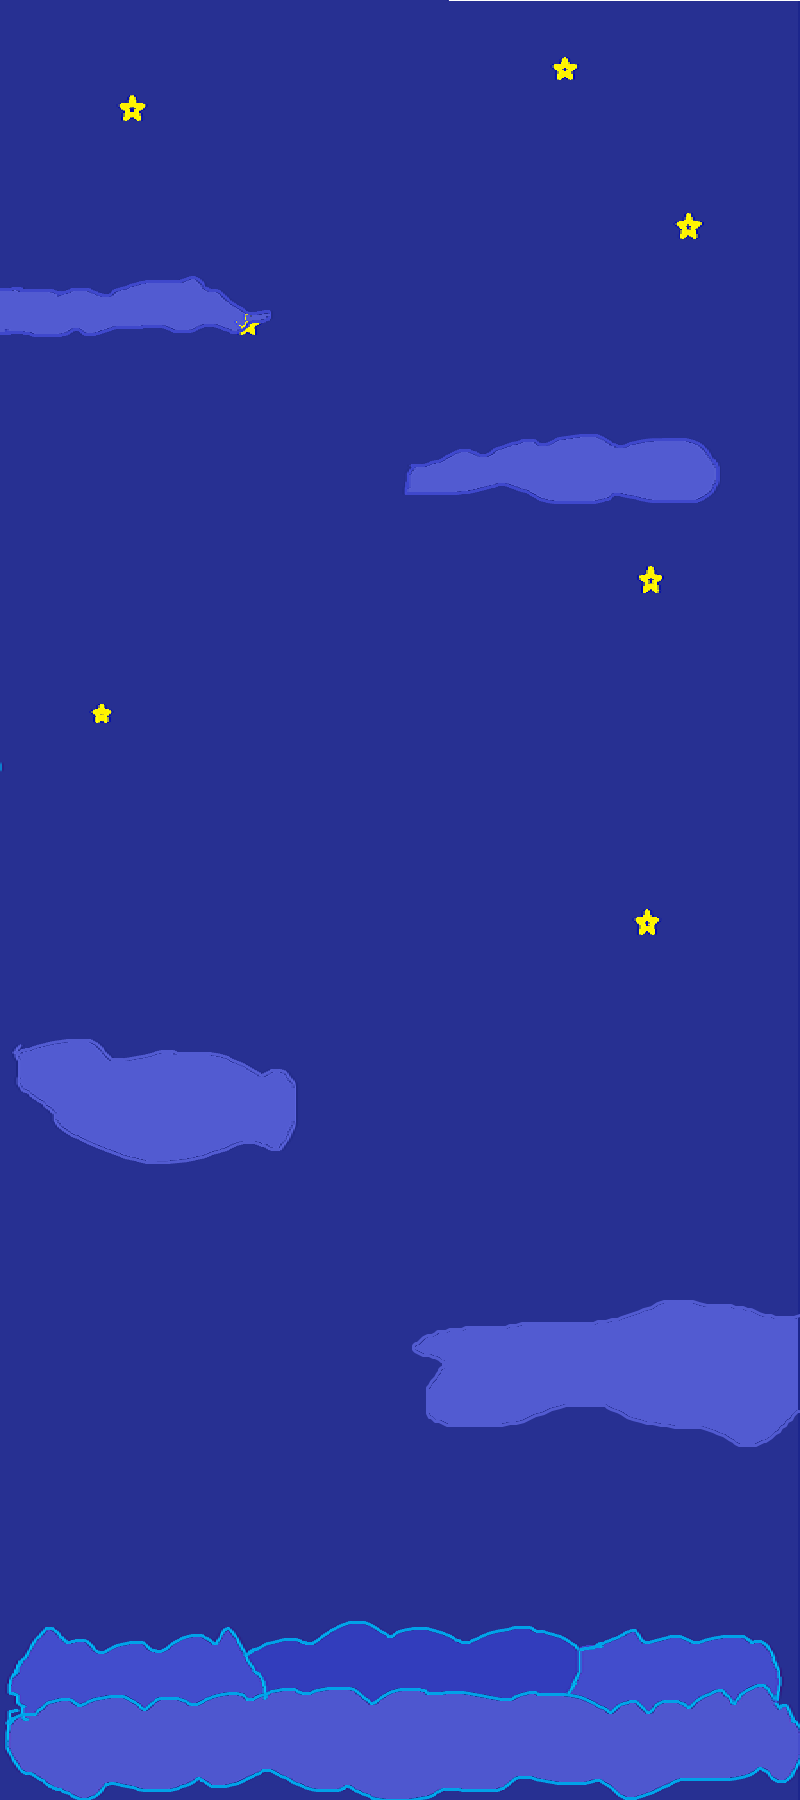
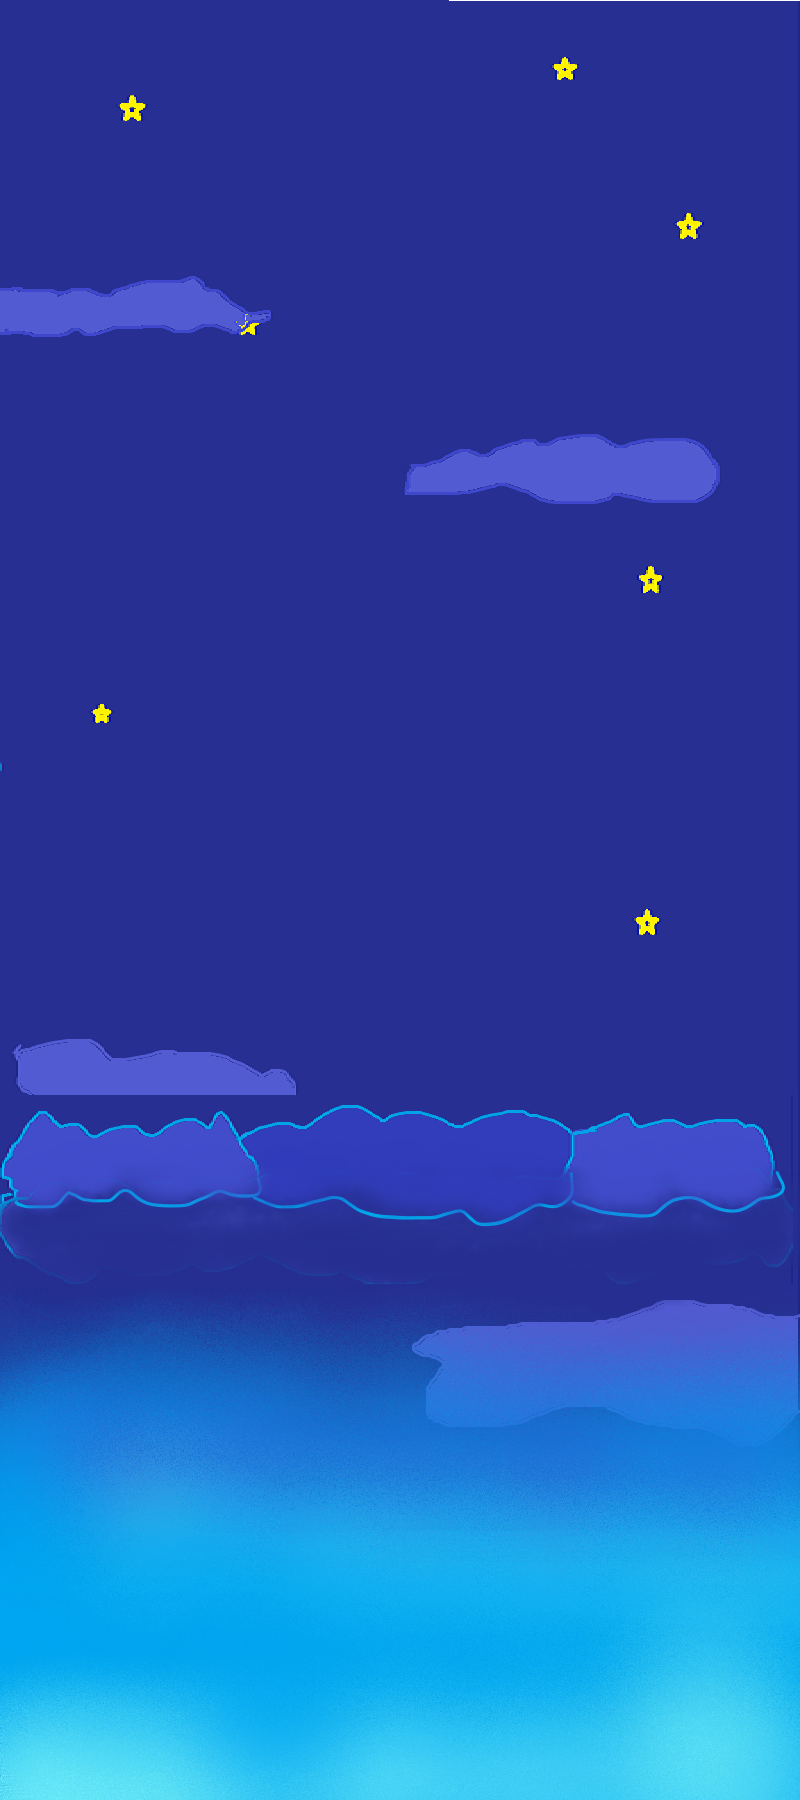
cloudStartStage2(test)

Changed region(s): [[0.0, 0.7156, 1.0, 1.0], [0.0, 0.5911, 0.9688, 0.6844]]

diff --git a/js/code.js b/js/code.js
@@ -58,6 +58,8 @@ function preload() {
     game.load.spritesheet('clound1', 'images/clound.png');
     game.load.spritesheet('clound2', 'images/clound2.png');
     game.load.spritesheet('clound3', 'images/clound3.png');
+    game.load.spritesheet('cloudStartStage2', 'images/cloudStartStage2.png');
+    
     ////sound////
     game.load.audio('BGMStage1','sound/BGMStage1.mp3');
     game.load.audio('BGMStage2','sound/BGMStage2.mp3');
@@ -159,7 +161,7 @@ var sattellite;
 var clound1Group;
 var clound2Group;
 var clound3Group;
-
+var cloudStartStage2;
 var startButton;
 var howtoplayButton;
 var creditButton;
@@ -429,7 +431,7 @@ function update() {
                     if (!isSpacebarPressed && !spacebarBlock.alive) {
                         // wippo.animations.play("death");
                         console.log("death reason : isSpacebarPressed = false.")
-                        gameEnd();//====== comment ทิ้งเพื่อไม่ต้องกด spacebar
+                        //gameEnd();//====== comment ทิ้งเพื่อไม่ต้องกด spacebar
                     }
 
                     isSpacebarPressed = false;
@@ -504,12 +506,31 @@ function update() {
         if(bgChange!=null){
             bgChange.tilePosition.y += bgSpeed;
         }
+        if(cloudStartStage2 != null){
+            if(cloudStartStage2.y>500&&cloudStartStage2.body.velocity.y>5){
+                cloudStartStage2.body.velocity.y-=5;
+            }
+        }
         if (isfirstChange) {
             isfirstChange = false;
             if (stateHandle == 1) {
                 bgChange = game.add.tileSprite(0, 0, this.game.world.width, this.game.world.height, 'background2');
                 bgChange.tilePosition.y += 600;
                 BGMStage1.fadeOut(3000);
+                cloudStartStage2 = game.add.sprite(0, 0, 'cloudStartStage2');
+                cloudStartStage2.anchor.setTo(0,0.5);
+                game.physics.arcade.enable(cloudStartStage2);
+                cloudStartStage2.checkWorldBounds = true;
+                cloudStartStage2.events.onOutOfBounds.add(function () {
+                    cloudStartStage2.destroy();
+                    cloudStartStage2 = null;
+                }, this);
+                cloudStartStage2.body.velocity.y = 150;
+                cloudStartStage2.sendToBack();
+                wippo.sendToBack();
+                smoke.sendToBack();
+                bg.sendToBack();
+
             }
             else if (stateHandle == 2) {
                 bgChange = game.add.tileSprite(0, 0, this.game.world.width, this.game.world.height, 'background3');
